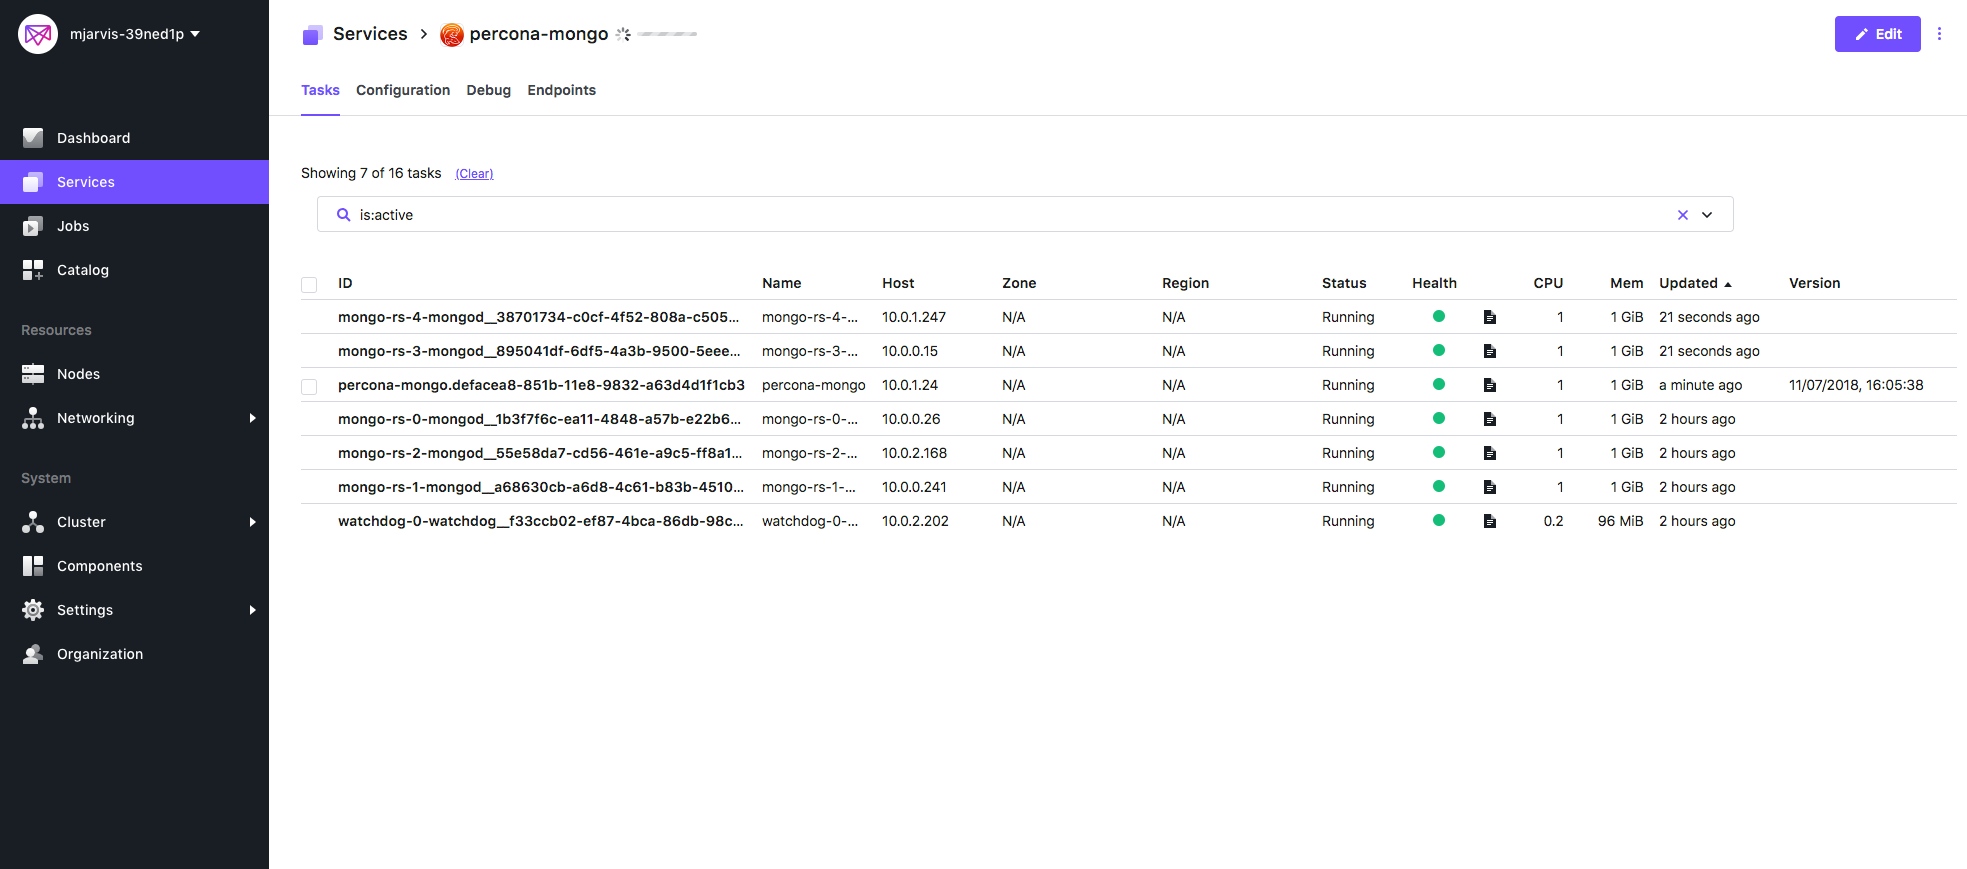
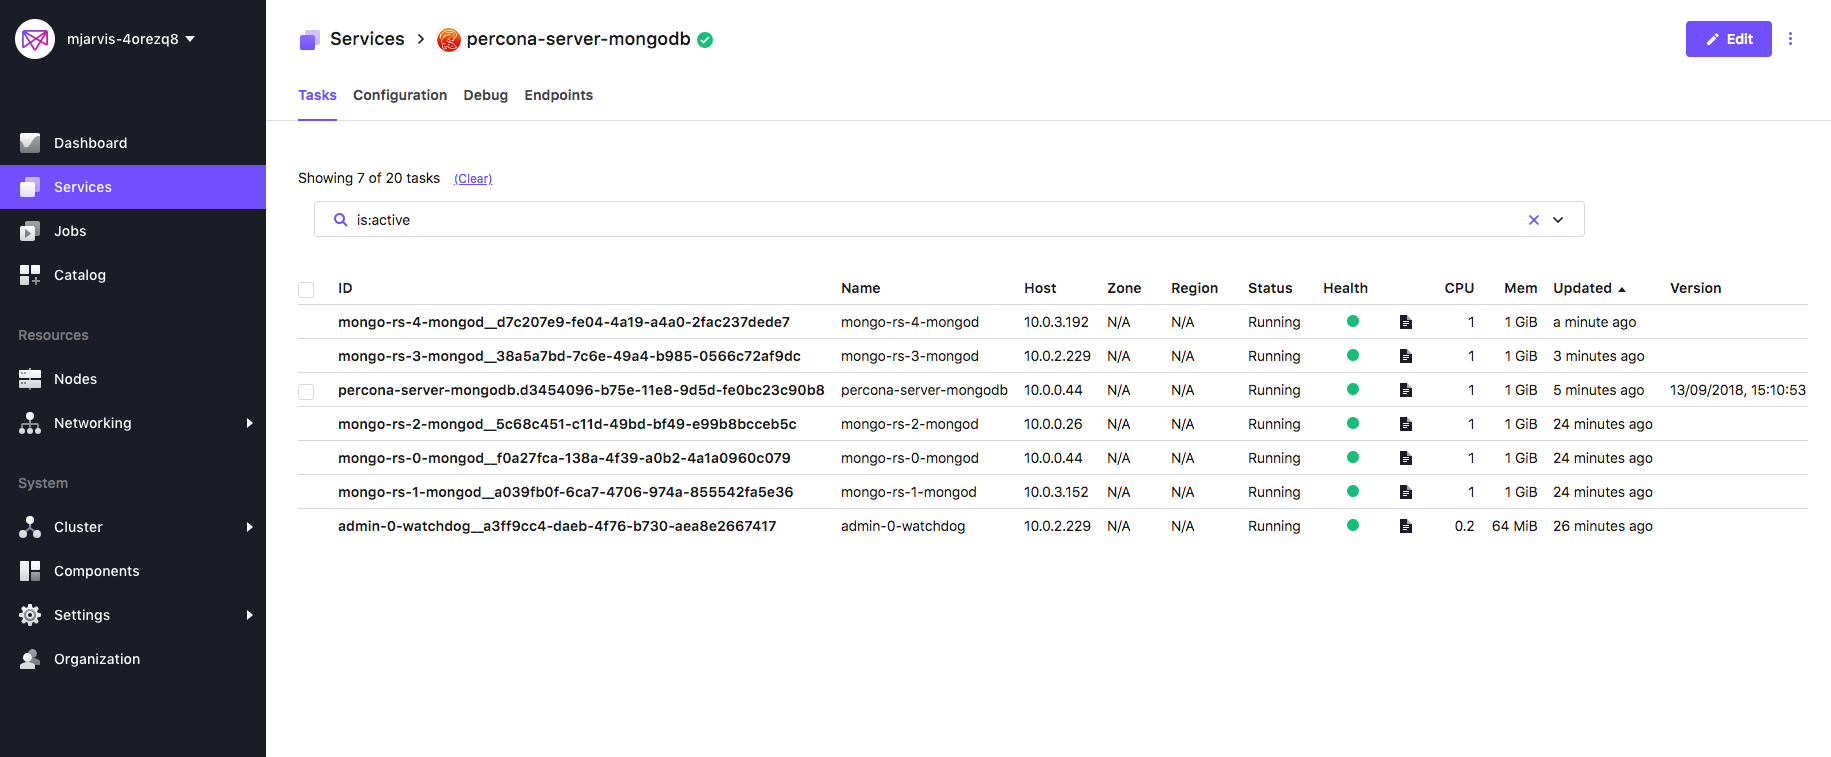
Update for new percona version (#74)
The name of the percona service has changed from percona-mongo to
percona-server-mongodb, update the demo to reflect this

diff --git a/mqtt-iot/1.11/README.md b/mqtt-iot/1.11/README.md
@@ -25,16 +25,43 @@ This demo presents a highly scalable IOT architecture using Mosquitto, MongoDB a
 The DC/OS services used in the demo are as follows:
 
 - Marathon
-- Percona-Mongo
+- Percona-Server-MongoDB
 
 ## Setup
 
 ### MongoDB
 
-Our first task is to deploy a MongoDB replica set, we can just use the defaults from the percona-mongo package which will give us a three node set. MongoDB is a widely used choice for deployment in IOT applications due to it's scalability, support for complex queries, and the fact that it doesn’t require strict schemas, so you can push documents to it in native JSON with different types for each field
+Our first task is to deploy a MongoDB replica set, we can just use the defaults from the percona-server-mongodb package which will give us a three node set. MongoDB is a widely used choice for deployment in IOT applications due to it's scalability, support for complex queries, and the fact that it doesn’t require strict schemas, so you can push documents to it in native JSON with different types for each field.
+
+Firstly we need to create a config file which sets up the default users, passwords and keys. It should look something like this :
 
 ```
-dcos package install percona-mongo
+Mattbook-Pro:percona matt$ cat demo.json 
+{
+  "mongodb-credentials": {
+    "backupUser": "backup",
+    "backupPassword": "backupuserpassword",
+    "userAdminUser": "useradmin",
+    "userAdminPassword": "useradminpassword",
+    "clusterAdminUser": "clusteradmin",
+    "clusterAdminPassword": "clusteradminpassword",
+    "clusterMonitorUser": "clustermonitor",
+    "clusterMonitorPassword": "monitoruserpassword",
+    "key": "8cNNTVP6GqEOKzhUVDVryxIt04K6kDbXygamH4upPGAO59gzXVQAgX9NwxwqDvpt 094zMkkRWDLzuCgbg3Aj8EFVEM0/W1Nz+XUSTHEn4HiNzCVG4TTHFP6P1PEPswG6 tQMP6bnRXL7uGWmdGhbAxOV/+p6AfNs67MTvfCeH0EaPCgPPXhJft9D0nZ0SPOm9 VvfxG3djnHClIlclkchoIwc1Kw21loyXwuOjX4RkywVDdmFXjKC+l9yxfyt/9Gyh YE0OlS7ozWLiH8zy0MyzBdK+rc0fsxb2/Kb/8/2diC3O3gdVxjneQxaf66+FHVNW mV9/IHDptBHosdWkv0GboW8ZnTXnk0lyY0Jw85JFuTeFBzqPlB37jR0NU/HFm5QT Ld62woaGIWCTuXGb81QHaglPZUBIhEq/b3tahJBmLc+LKd0FUShoupTtPc2FjxbH xD8dZ+L9Uv7NPtSe+o3sTD60Pnsw1wbOrNDrrC+wpwoMy2GbQjXk/d+SRK/CXfuk Z676GKQDivpinhdF58l4OEi+WEN633yuNtNAQDgz+aOVZKN4oLoyR22B1nrea1qW wzZjRw7kpVxcQKiyn+gDmAZZPbctiVqTNHPE5n9LrOcctuLZKpoQk97lvZTSCKfy d32mfx9szZZ/QCfF9Dt7+G5nJUAULigKnQYRi/i86ZTPHSzfun+ZIzYLCzJuZfyS 7E8DMsmv9wCPrPAF/8cOFMWW0o0Na7GZKCJ8U+AMm92R725h4g5ao6+kQPG7vOkY LR8MJzDOqcmAC0M9AwE5UXQl56V6qBNyREx/WGGYS1B5DOfZvVTJNDkoHVIL1upZ geSlACiXQ+M0Rkgo0h8BJUhGY9LTuc6S8qiMBEnhBClg4kA/u4FJ06nlmF3ZpIXT KsVSr9ee3mu0vSr6P52slvAAX+RL3y+JgSlz2kC8oVgCZZdKn7yq9e6yB3zHNMjX 8VIi/UgFmfqCiaAlUT0pt2ZzGuw1L9QUOuNAZfufSkK1ED4V"
+  }
+}
+```
+
+The passwords for the users must have a minimum of 10 characters, and the key must be at least 1024 characters long, you can generate an appropriate key on MacOS using :
+
+```
+Mattbook-Pro:percona matt$ openssl rand -base64 756
+```
+
+Now we have our options.json we can use it to install the package :
+
+```
+dcos package install percona-server-mongodb --options=demo.json
 ```
 
 We also need to configure a user for the database we're going to use. To do this we need a JSON file defining the user, which you can find in the demo directory : 
@@ -53,13 +80,11 @@ Mattbook-Pro:1.11 matt$ cat mongouser.json
 To add the user :
 
 ```
-Mattbook-Pro:1.11 matt$ dcos percona-mongo user add mongogw mongouser.json useradmin useradminpassword
+Mattbook-Pro:1.11 matt$ dcos percona-server-mongodb user add mongogw mongouser.json
 {
-  "message": "Received cmd: start"
+"message": "Received cmd: start update-user with parameters: {MONGODB_CHANGE_USER_DB=mongogw, MONGODB_CHANGE_USER_DATA=eyJ1c2VycyI6W3sidXNlciI6Im1vbmdvZ3ciLCJwd2QiOiIxMjM0NTYiLCJyb2xlcyI6W3sicm9sZSI6InJlYWRXcml0ZSIsImRiIjoibW9uZ29ndyJ9XX1dfQ==}"
 }
 ```
-
-The percona-mongo package creates the useradmin user automatically, although in a production deployment you should change this password before deployment with an options.json. See the percona-mongo [service docs](https://docs.mesosphere.com/services/percona-mongo/) for more details. 
 
 ### MQTT layer
 
@@ -233,9 +258,14 @@ rs:PRIMARY> db.devices.find().limit(5).sort({$natural:-1})
 { "_id" : ObjectId("5b461b833613f800047dcca3"), "date" : ISODate("2018-07-11T15:00:19.396Z"), "deviceUID" : "cd3da0de-14b3-423f-a1bb-ef64173f29bb", "value" : 21, "gatewayID" : "mqtt.instance-535430a1-850f-11e8-9832-a63d4d1f1cb3.mongogw" }
 ```
 
-Finally we can also scale our MongoDB layer, horizontally by adding further instances to our replica set or vertically by changing the size of the instances. For the purposes of this demo, let’s add another two instances to our replica set. We can do this very simply in the DC/OS UI, by clicking on the MongoDB service, then clicking Edit, and selecting the MongoDB tab :
+Finally we can also scale our MongoDB layer, horizontally by adding further instances to our replica set or vertically by changing the size of the instances. For the purposes of this demo, let’s add another two instances to our replica set. We can do this very simply using the DC/OS CLI :
 
-![Scale MongoDB](images/mongoconfig.png)
+```
+Mattbook-Pro:percona matt$ dcos percona-server-mongodb scale up 5
+Pod task count for 'percona-server-mongodb' is currently 3
+Updating service configuration for 'percona-server-mongodb'
+Pod task count for 'percona-server-mongodb' is updated to 5
+```
 
 Once we’ve changed the configuration, click on Review and Run, then Run Service, and the percona-mongo service will deploy an additional two instances to our replica set. 
 
